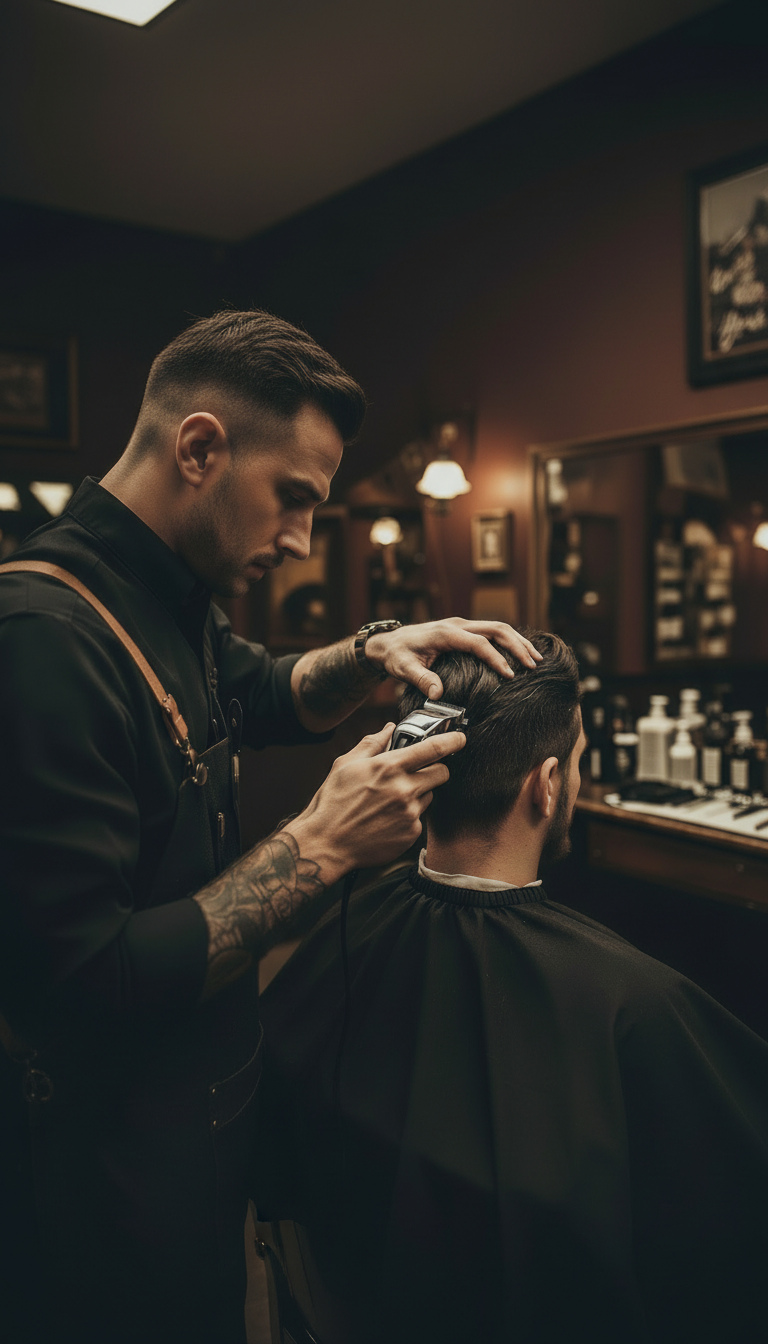
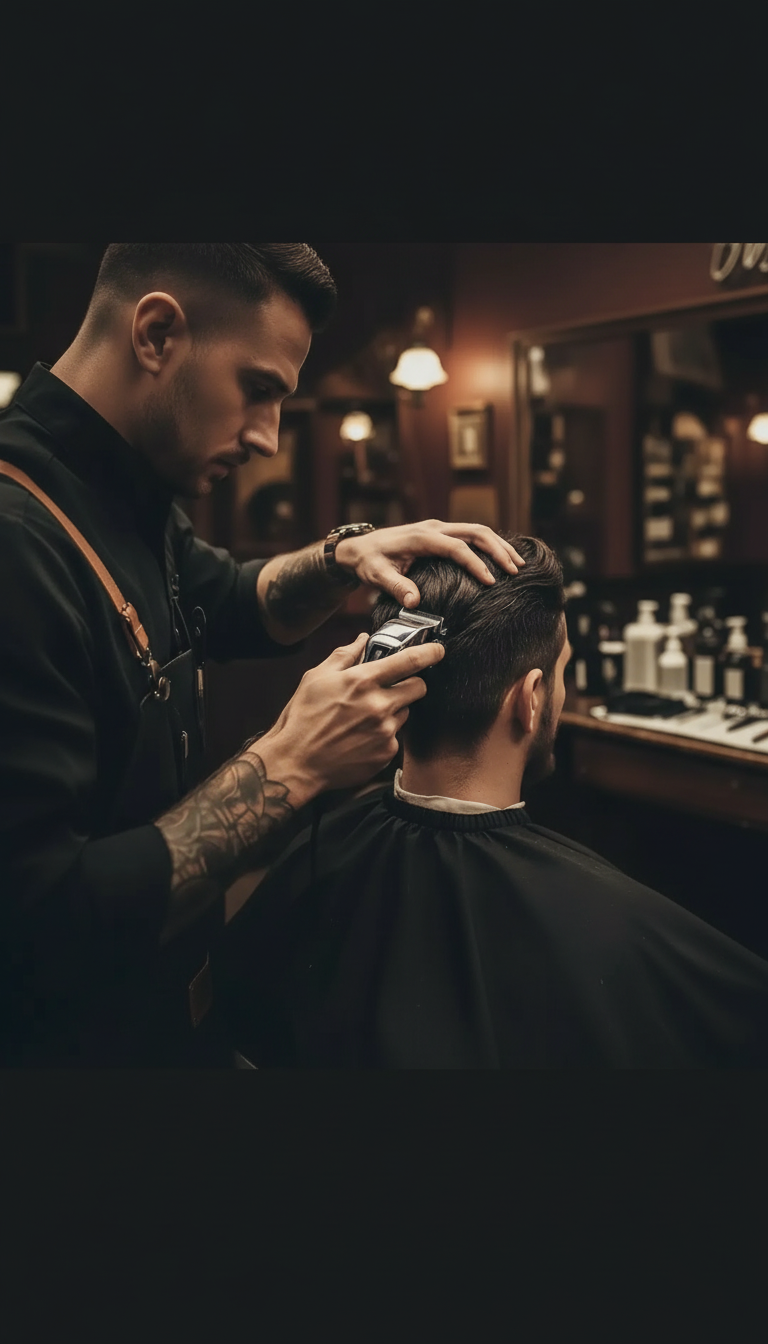
Changes

diff --git a/src/components/booking/HeroSection.tsx b/src/components/booking/HeroSection.tsx
@@ -1,6 +1,6 @@
 import { Phone, Clock, MapPin } from "lucide-react";
 import { BARBERSHOP_CONFIG } from "@/lib/constants";
-import heroImage from "@/assets/hero-barbershop-compressed.webp";
+import heroImage from "@/assets/hero-barbershop.webp";
 import heroImageMobile from "@/assets/hero-barbershop-mobile.webp";
 
 interface HeroSectionProps {
